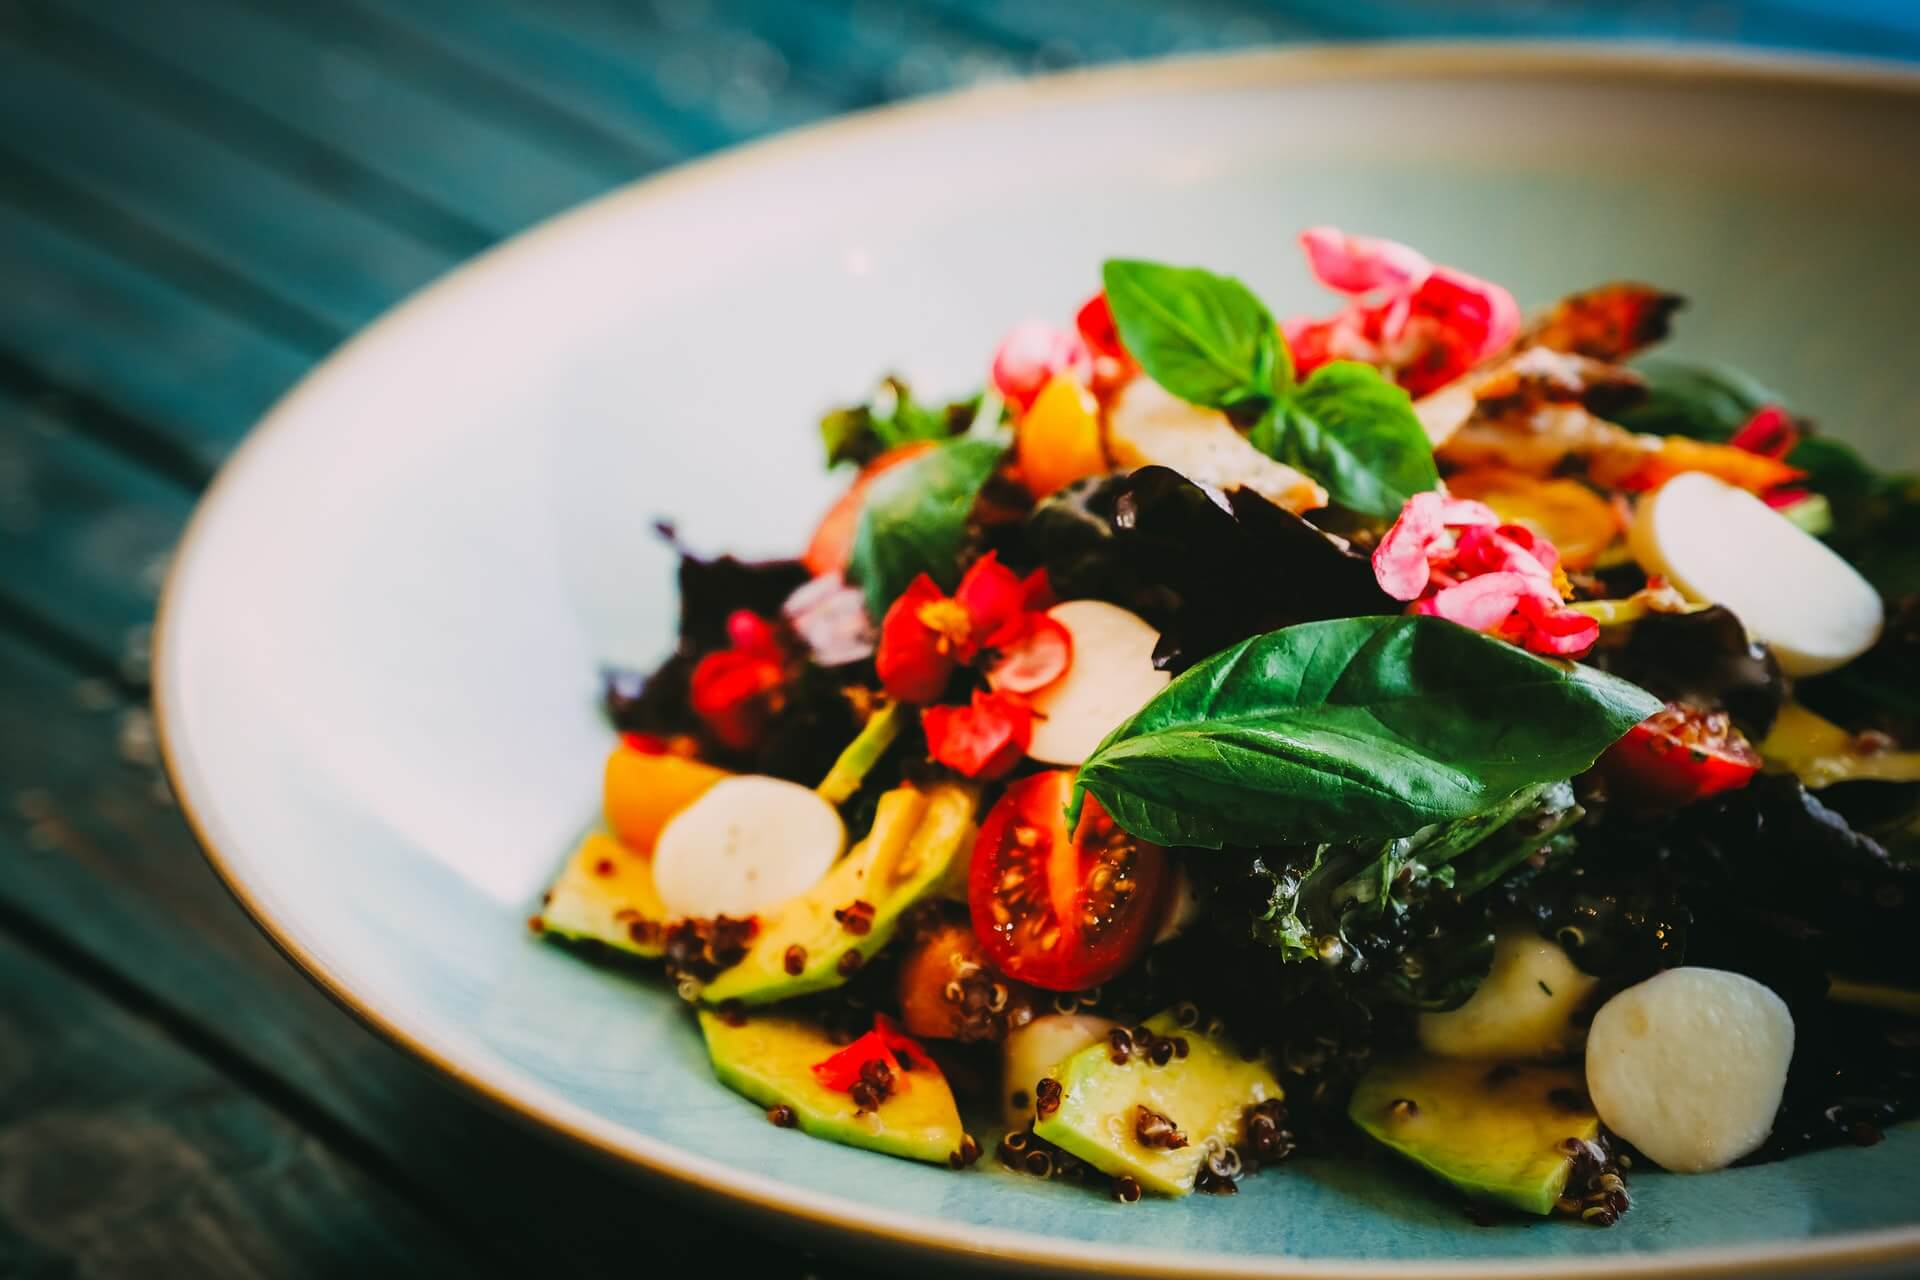
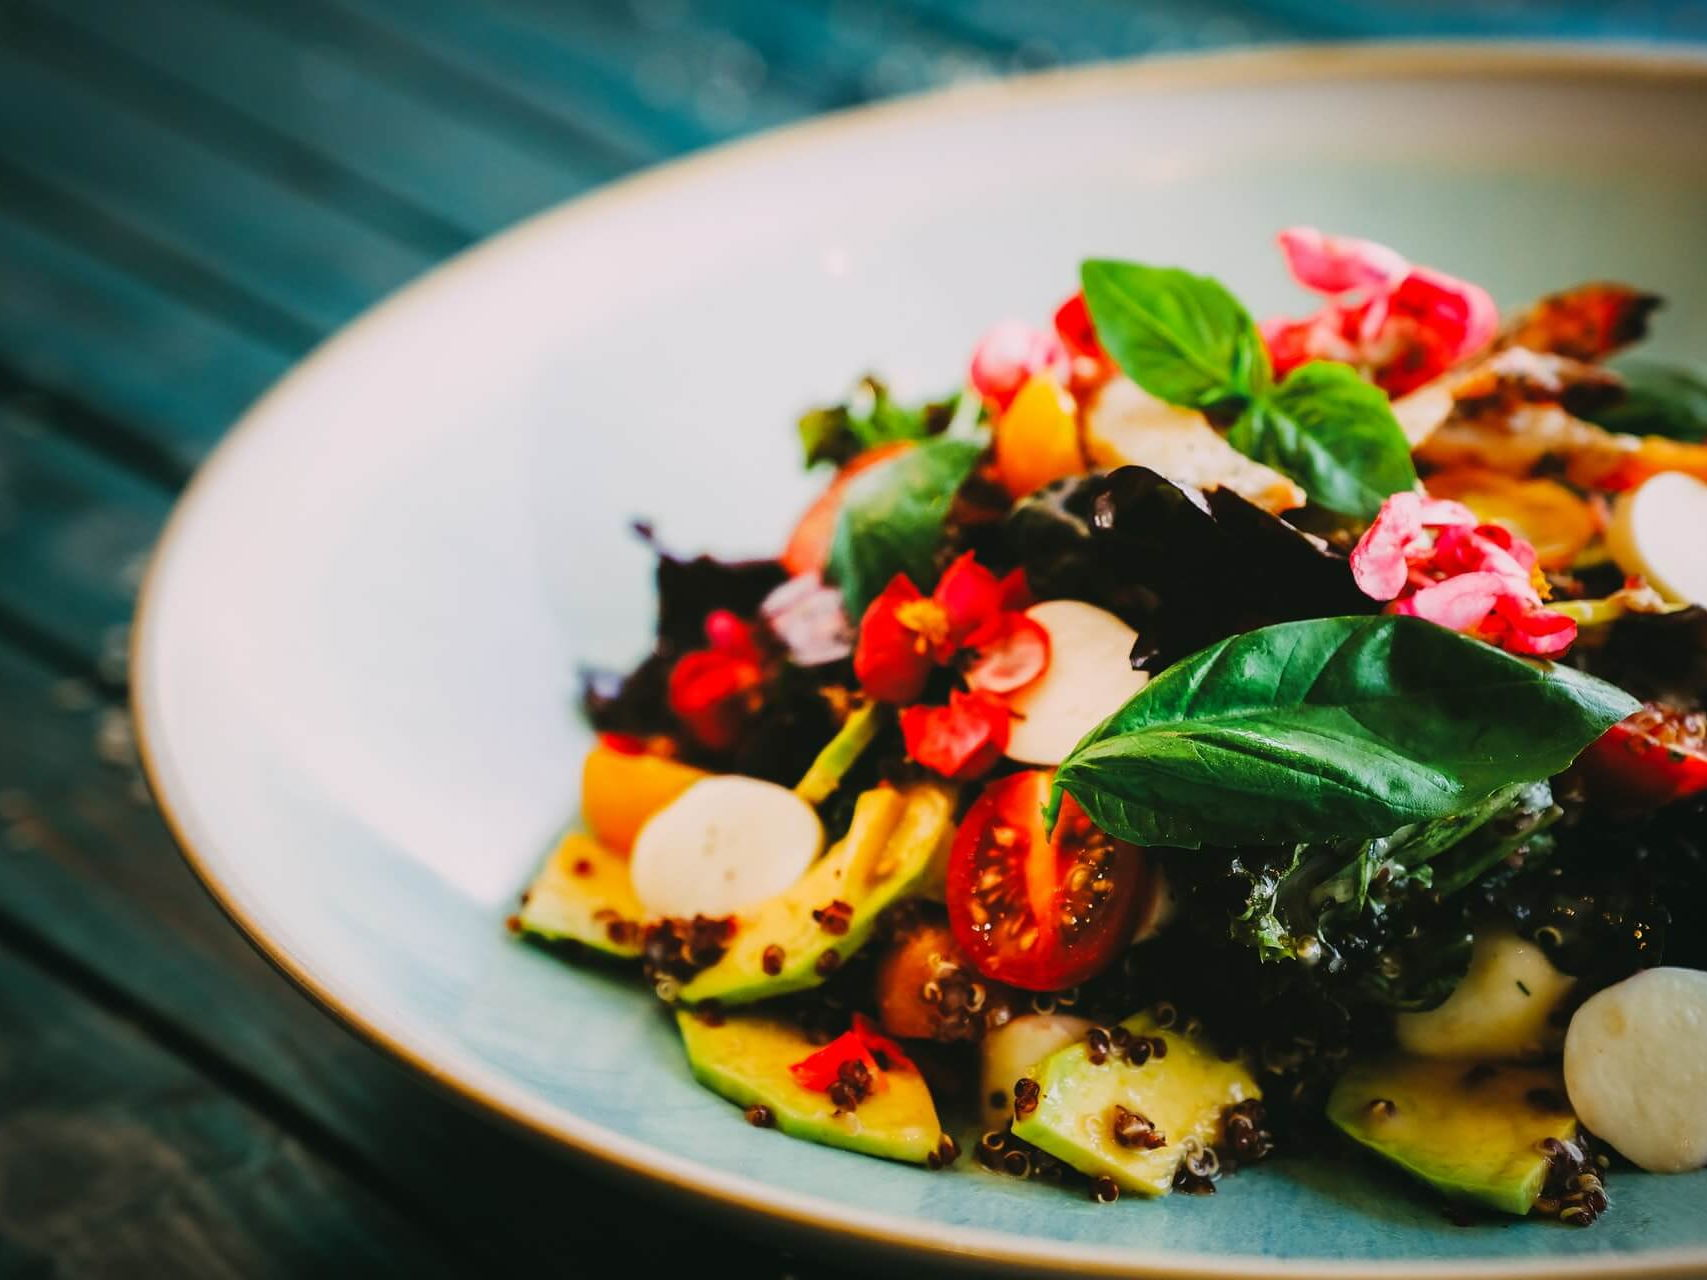
Fix: Replace images for galley by cropped

diff --git a/gallery.html b/gallery.html
@@ -52,7 +52,7 @@
     <main>
         <div class="row">
             <div class="col-12 col-lg-8">
-                <img src="assets/images/outdoor.jpg" alt="">
+                <img src="assets/images/outdoor.jpg" class="image-fluid" alt="">
             </div>
             <div class="col-12 col-md-7 col-lg-4">
                 <img src="assets/images/salad.jpg" alt="">

diff --git a/assets/css/style.css b/assets/css/style.css
@@ -118,6 +118,8 @@ footer h3 {
     width: 90%;
 }
 
+/* gallery */
+
 /* contact */
 .my-btn {
     background-color: var(--dark-brown);
